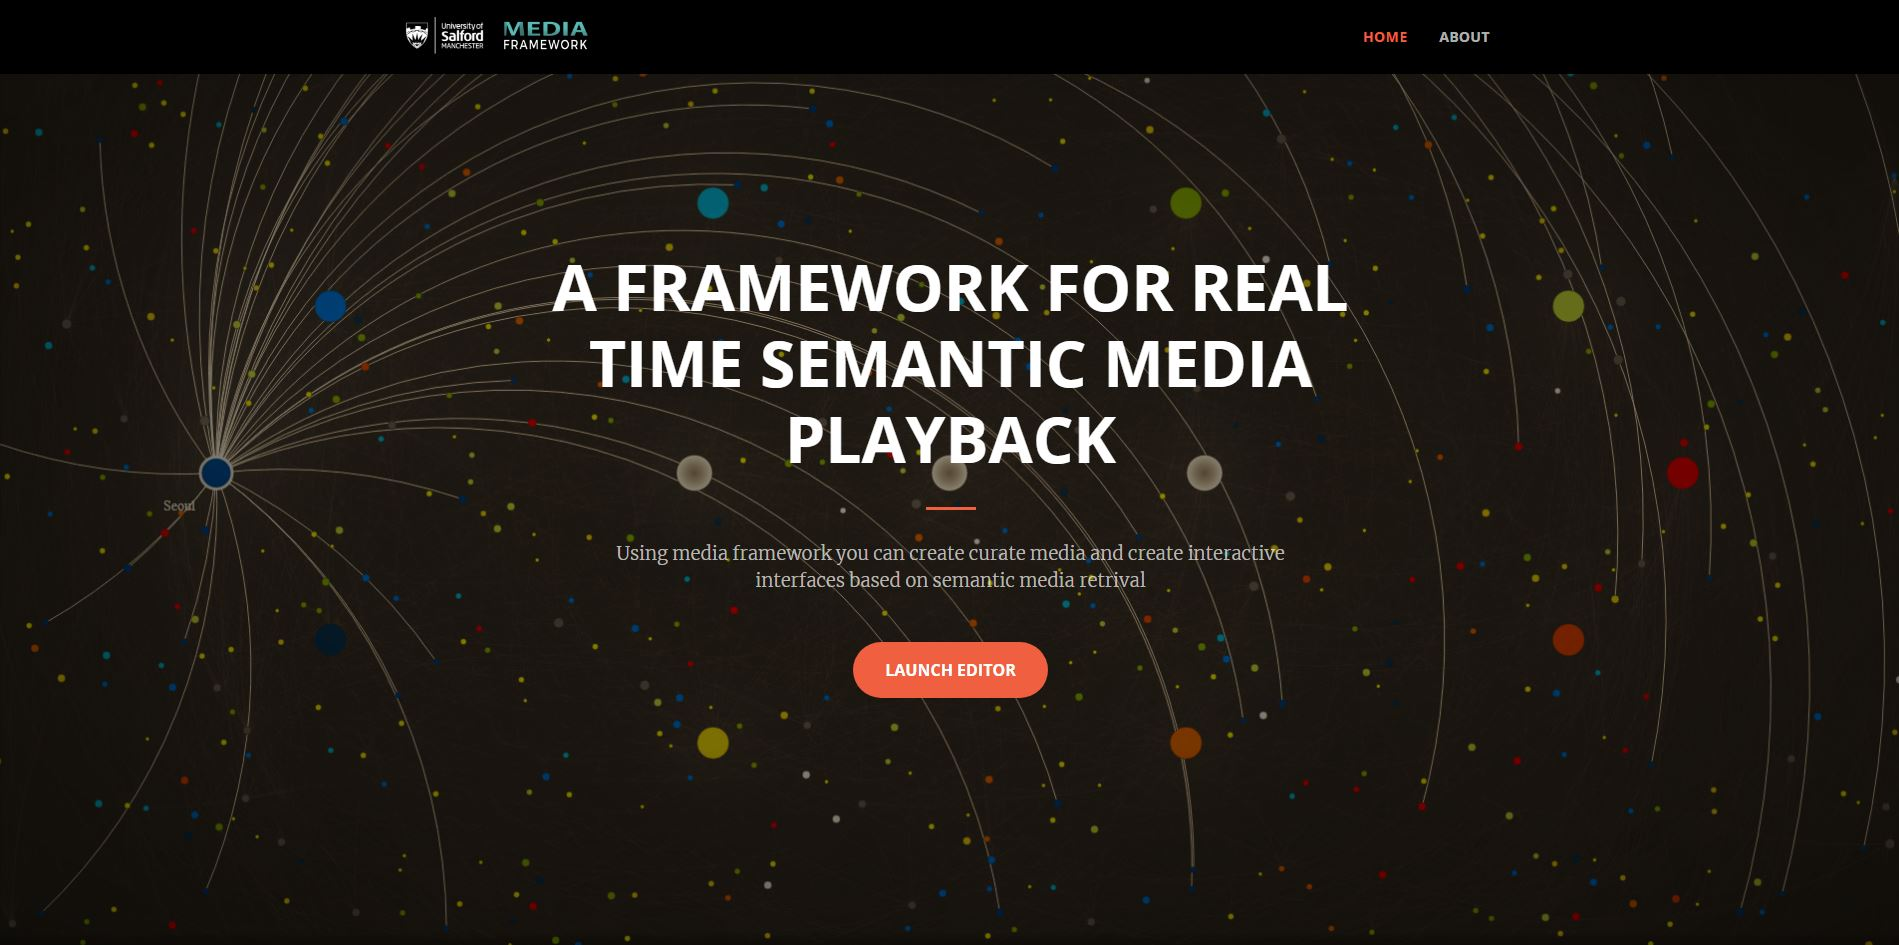
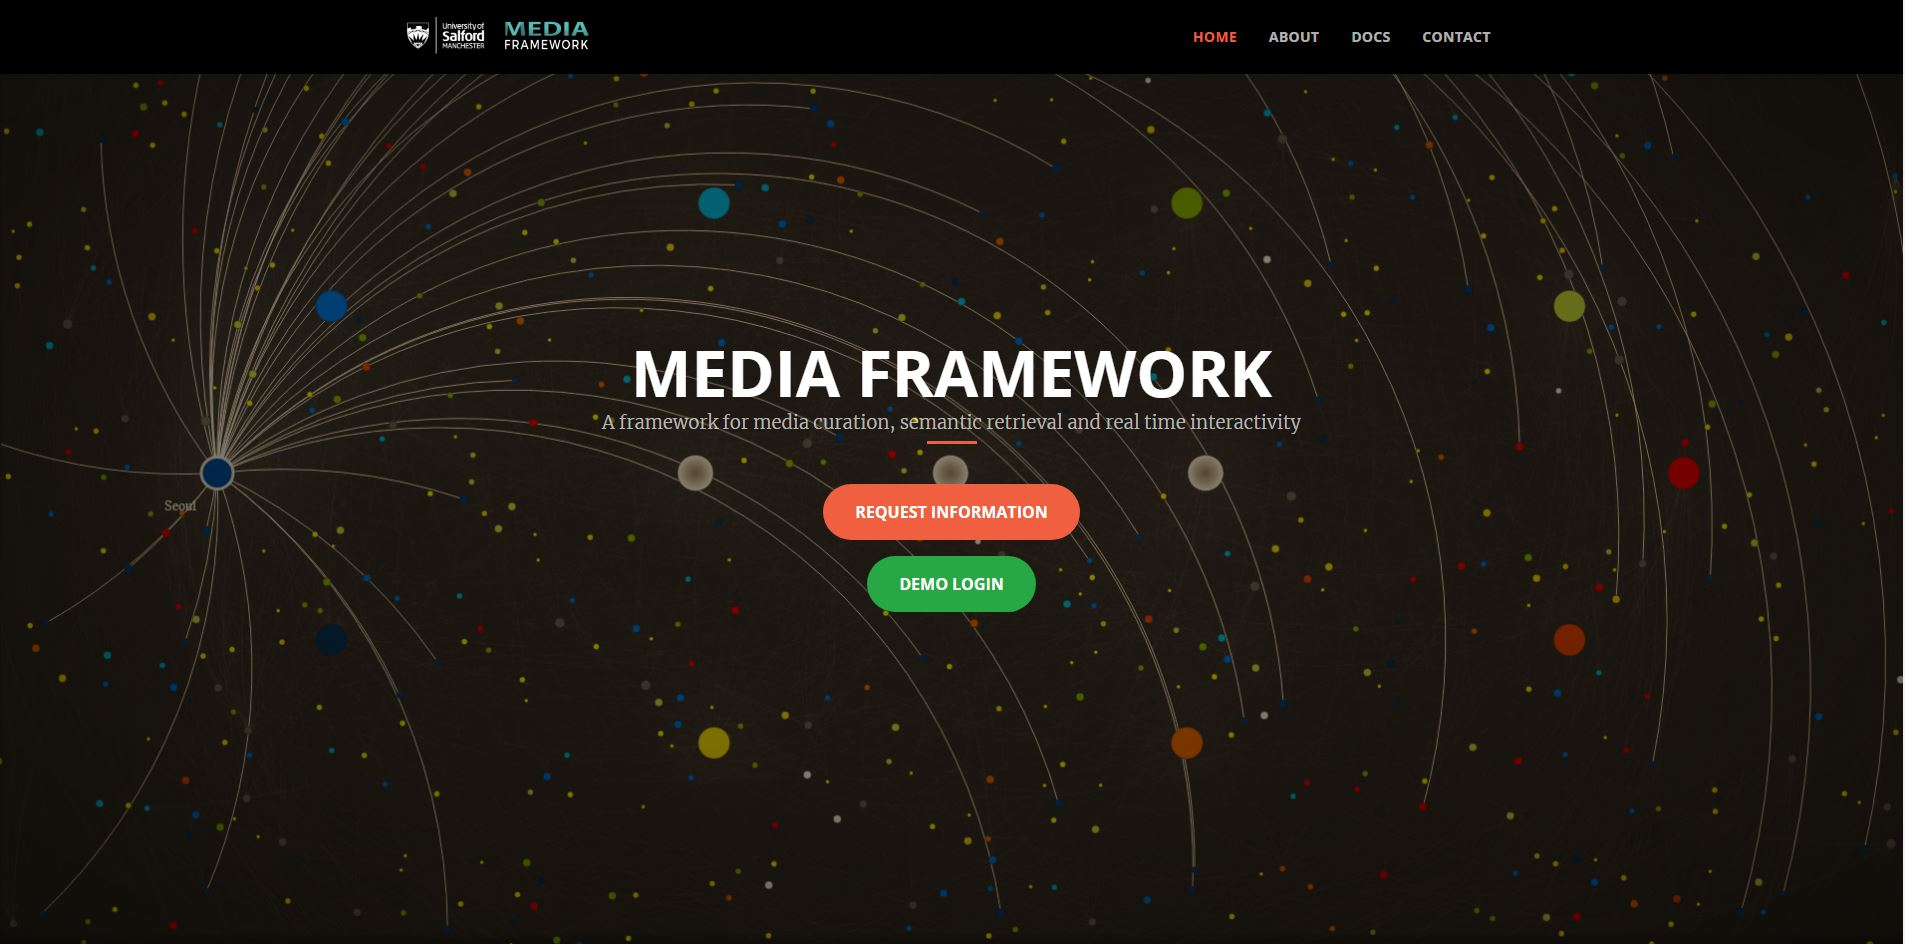
General re-write to focus on framework/development not application
Todo:
Contact email?

diff --git a/index.html b/index.html
@@ -45,6 +45,12 @@
             <li class="nav-item">
               <a class="nav-link js-scroll-trigger" href="#about">About</a>
             </li>
+            <li class="nav-item">
+              <a class="nav-link js-scroll-trigger" href="#docs">Docs</a>
+            </li>
+            <li class="nav-item">
+              <a class="nav-link js-scroll-trigger" href="#contact">Contact</a>
+            </li>
           </ul>
         </div>
       </div>
@@ -55,13 +61,15 @@
         <div class="row">
           <div class="col-lg-10 mx-auto">
             <h1 class="text-uppercase">
-              <strong>A framework for real time semantic media playback</strong>
+              <strong>Media Framework</strong>
             </h1>
             <hr>
           </div>
           <div class="col-lg-8 mx-auto">
-            <p class="text-faded mb-5">Using Media Framework you can create curate media and create interactive interfaces based on semantic media retrieval</p>
-            <a class="btn btn-primary btn-xl js-scroll-trigger" href="http://uos-sceneeditor.eu-west-1.elasticbeanstalk.com/">Launch Editor</a>
+            <p class="text-faded mb-5" style="margin-top: -65px">A framework for media curation, semantic retrieval and real time interactivity</p>
+            <a class="btn btn-primary btn-xl js-scroll-trigger" href="#docs">Request Information</a>
+            <p></p>
+            <a class="btn btn-success btn-xl js-scroll-trigger" href="http://uos-sceneeditor.eu-west-1.elasticbeanstalk.com/">Demo Login</a>
           </div>
         </div>
       </div>
@@ -72,7 +80,7 @@
       <div class="container">
         <div class="row">
           <div class="col-lg-12 text-center">
-            <h2 class="section-heading">What can it do?</h2>
+            <h2 class="section-heading">What's in the demo?</h2>
             <hr class="my-4">
           </div>
         </div>
@@ -81,29 +89,28 @@
         <div class="row">
           <div class="col-lg-3 col-md-6 text-center">
             <div class="service-box mt-5 mx-auto">
-              
-              <h3 class="mb-3">Image Tagging</h3>
+              <h4 class="mb-3">Image Tagging</h4>
               <img src="/img/portfolio/thumbnails/tagging.png" width="150px" height="150px" style="margin-bottom: 10px"></img>
               <p class="text-muted mb-0">Tag and edit images while AI makes recommendations</p>
             </div>
           </div>
           <div class="col-lg-3 col-md-6 text-center">
             <div class="service-box mt-5 mx-auto">
-              <h3 class="mb-3">Create Scenes</h3>
+              <h4 class="mb-3">Scene Creation</h4>
               <img src="/img/portfolio/thumbnails/scene.png" width="150px" height="150px" style="margin-bottom: 10px"></img>
               <p class="text-muted mb-0">Create playable multimedia scenes to showcase your media</p>
             </div>
           </div>
           <div class="col-lg-3 col-md-6 text-center">
             <div class="service-box mt-5 mx-auto">
-              <h3 class="mb-3">Semantic Graphs</h3>
+              <h4 class="mb-3">Semantic Graphs</h4>
               <img src="/img/portfolio/thumbnails/graph.png" width="150px" height="150px" style="margin-bottom: 10px"></img>
               <p class="text-muted mb-0">Create interactive semantic graphs to navigate content</p>
             </div>
           </div>
           <div class="col-lg-3 col-md-6 text-center">
             <div class="service-box mt-5 mx-auto">
-              <h3 class="mb-3">Customisable</h3>
+              <h4 class="mb-3">JSON Editor</h4>
               <img src="/img/portfolio/thumbnails/json.png" width="150px" height="150px" style="margin-bottom: 10px"></img>
               <p class="text-muted mb-0">Editable JSON representation for power user customisation</p>
             </div>
@@ -111,6 +118,48 @@
         </div>
       </div>
     </section>
+
+    <section id="docs">
+      <div class="container">
+        <div class="row">
+          <div class="col-lg-12 text-center">
+            <h2 class="section-heading">Documentation</h2>
+            <hr class="my-4">
+          </div>
+        </div>
+      </div>
+      <div class="container"> 
+        <div class="row" >
+          <div class="col-lg-3 col-md-6 text-center mx-auto">
+            <div class="service-box mt-5 mx-auto">
+              <a class="fa fa-4x fa-book text-primary mb-3 sr-icons" href="http://dev-uos-mf-api.eu-west-1.elasticbeanstalk.com/rest-docs/"></a>
+              <h4 class="mb-3">API Docs</h4>
+            </div>
+          </div>
+        </div>
+      </div>
+    </section>
+
+    <section id="contact">
+        <div class="container">
+          <div class="row">
+            <div class="col-lg-8 mx-auto text-center">
+              <h2 class="section-heading">Contact</h2>
+              <hr class="my-4">
+              <p class="mb-5">Send us an email and we will get back to you as soon as possible!</p>
+              <div class="col-lg-3 col-md-6 text-center mx-auto">
+                  <div class="service-box mt-5 mx-auto">
+                    <a class="fa fa-4x fa-envelope text-primary mb-3 sr-icons" href="mailto:email@domain"></a>
+                    <h4 class="mb-3">email@domain</h4>
+                  </div>
+                </div>
+            </div>
+          </div>
+        </div>
+          <div class="row" >
+           
+          </div>
+      </section>
 
     <!-- Bootstrap core JavaScript -->
     <script src="vendor/jquery/jquery.min.js"></script>
